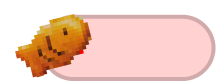
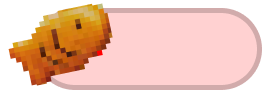
refac(fe): coin, fishCoin 높이 문제 수정

Changed region(s): [[0.0278, 0.0241, 1.0, 1.0], [0.8889, 0.8193, 0.9722, 0.9398]]

diff --git a/frontend/src/features/game/shared/components/Coin.tsx b/frontend/src/features/game/shared/components/Coin.tsx
@@ -9,25 +9,21 @@ const Coin = () => {
   return (
     <div className="flex items-end justify-center gap-3">
       {/* Coin */}
-      <div className="relative h-16 w-24">
-        <img
-          src={coin}
-          alt="coin"
-          className="h-full w-full object-contain object-bottom"
-        />
-        <span className="absolute inset-0 flex items-end justify-end pr-2 pb-1 text-lg font-bold text-gray-600">
+      <div className="relative flex h-16 w-28 items-center">
+        <img src={coin} alt="coin" className="h-full w-auto object-contain" />
+        <span className="absolute right-4 bottom-4 text-lg font-bold text-gray-600">
           {coinAmount}
         </span>
       </div>
 
       {/* Fish Coin */}
-      <div className="relative h-16 w-24">
+      <div className="relative ml-1 flex h-16 w-28 items-center">
         <img
           src={fishCoin}
           alt="fish coin"
-          className="h-full w-full object-contain object-bottom"
+          className="-ml-2 h-full w-auto scale-105 object-contain"
         />
-        <span className="absolute inset-0 flex items-end justify-end pr-2 pb-1 text-lg font-bold text-gray-600">
+        <span className="absolute right-5 bottom-4 text-lg font-bold text-gray-600">
           {fishCoinAmount}
         </span>
       </div>
